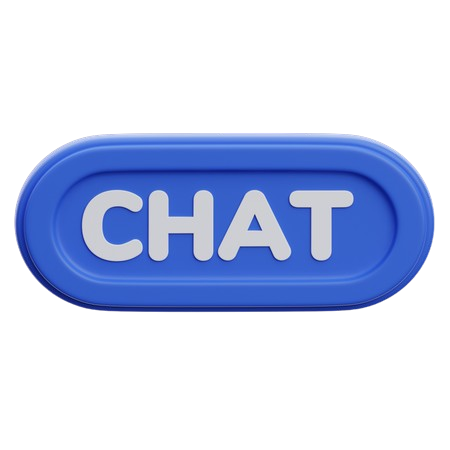
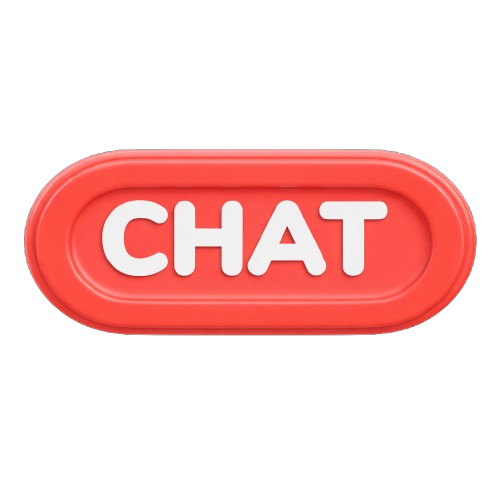
Use the new chatt.png as the new chat button in home

diff --git a/src/app/discover/page.tsx b/src/app/discover/page.tsx
@@ -183,7 +183,7 @@ export default function DiscoverPage() {
               <div className="absolute inset-0 bg-gradient-to-t from-black/70 via-transparent to-transparent" />
             </div>
 
-            {/* Chat Icon - Top Right - Transparent background & Larger */}
+            {/* Chat Icon - Top Right - Transparent background & Prominent */}
             <button 
               onClick={(e) => { 
                 e.stopPropagation(); 
@@ -191,7 +191,7 @@ export default function DiscoverPage() {
               }}
               className="absolute top-1 right-1 w-16 h-16 flex items-center justify-center z-10 transition-all active:scale-90 outline-none ring-0 select-none"
             >
-              <div className="relative w-13 h-13 drop-shadow-2xl">
+              <div className="relative w-14 h-14 drop-shadow-2xl">
                 <Image src="/chatt.png" alt="Chat" fill className="object-contain" />
               </div>
             </button>
